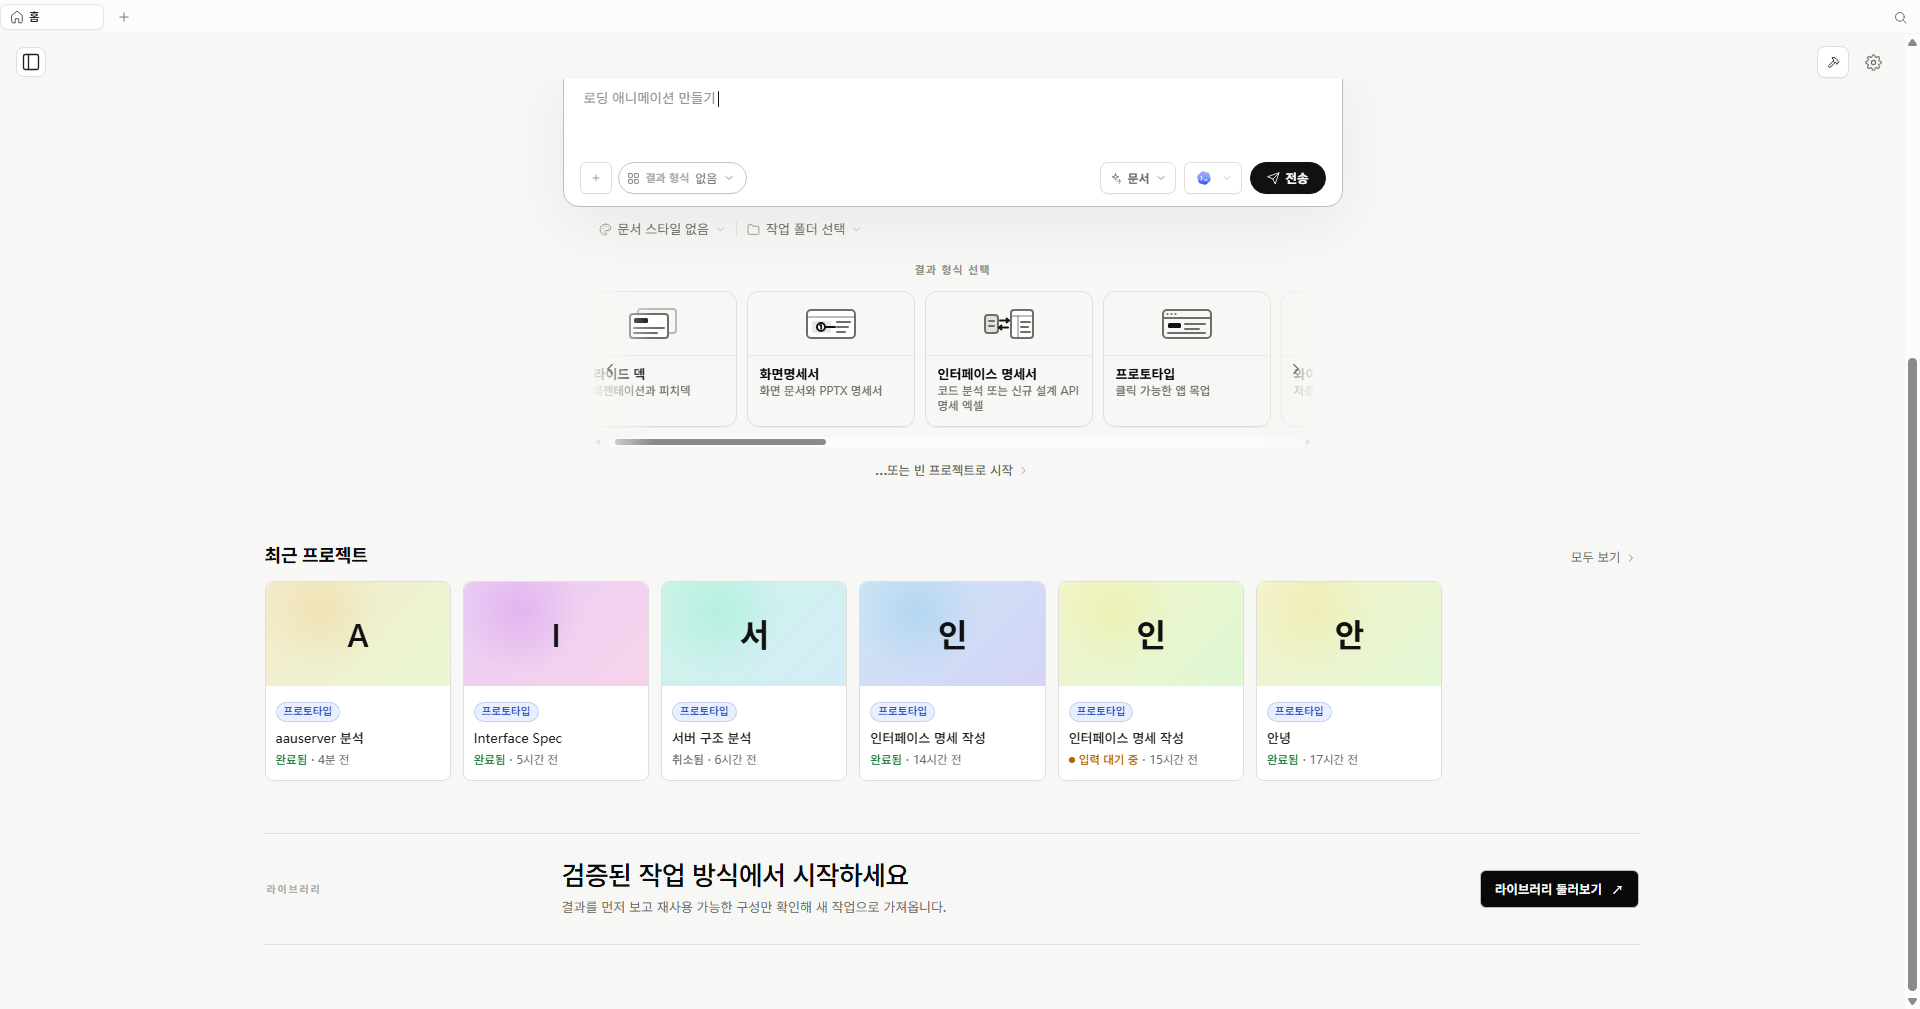
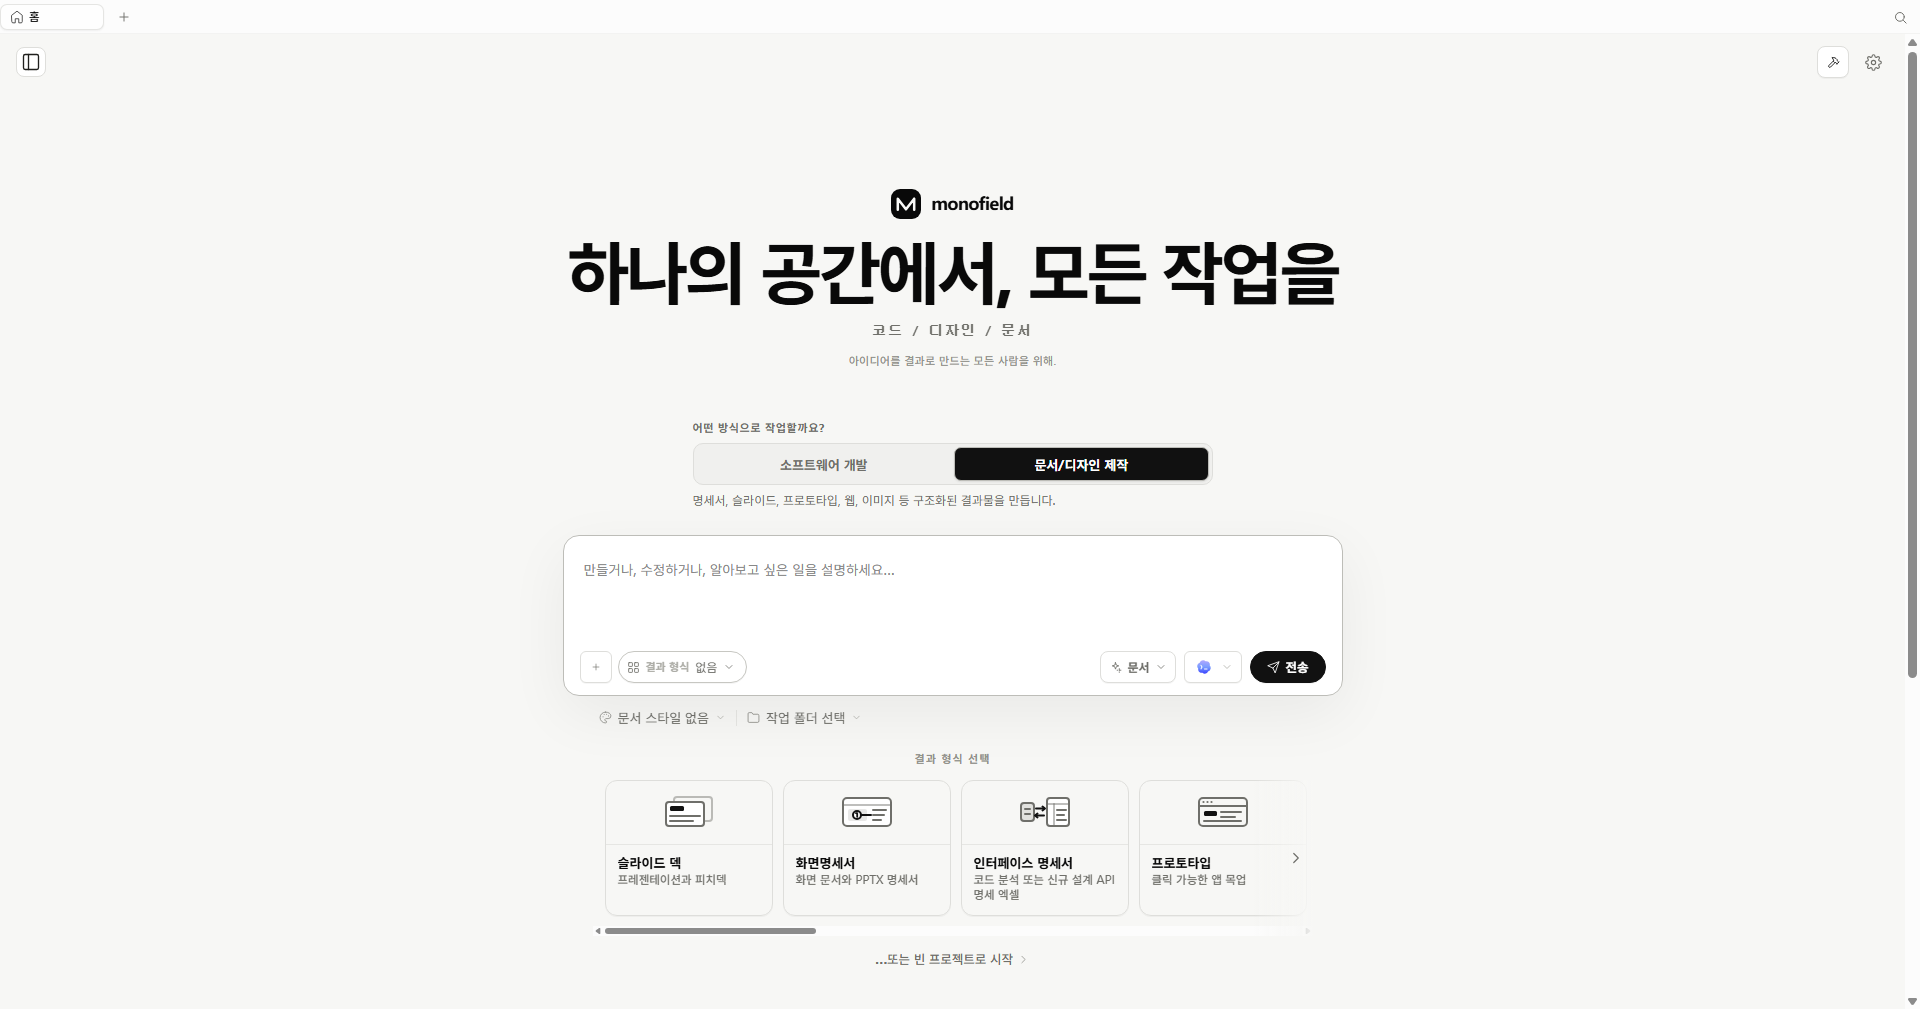
fix: publish a clean documents mode preview

diff --git a/apps/monofield-site/index.html b/apps/monofield-site/index.html
@@ -93,7 +93,7 @@
             <figure class="real-mode-frame">
               <div class="real-mode-meta"><span data-en="Documents / design" data-ko="문서/디자인 제작">Documents / design</span><small data-en="Choose the result format, connect references, and move from a structured draft to review and export." data-ko="결과 형식을 고르고 참고 자료를 연결해 구조화된 초안부터 검토와 내보내기까지 진행합니다.">Choose the result format, connect references, and move from a structured draft to review and export.</small></div>
               <div class="real-mode-viewport">
-                <img src="/monofield-documents-design.png" width="1899" height="1295" alt="MonoField documents and design mode" loading="lazy" decoding="async">
+                <img src="/monofield-documents-design.png" width="1920" height="1009" alt="MonoField documents and design mode" loading="lazy" decoding="async">
               </div>
               <figcaption><span data-en="Production starts by choosing the deliverable." data-ko="제작은 만들 결과물을 고르는 것부터 시작합니다.">Production starts by choosing the deliverable.</span><b data-en="sources → compose → preview → review → export" data-ko="자료 → 제작 → 미리보기 → 검토 → 내보내기">sources → compose → preview → review → export</b></figcaption>
             </figure>
